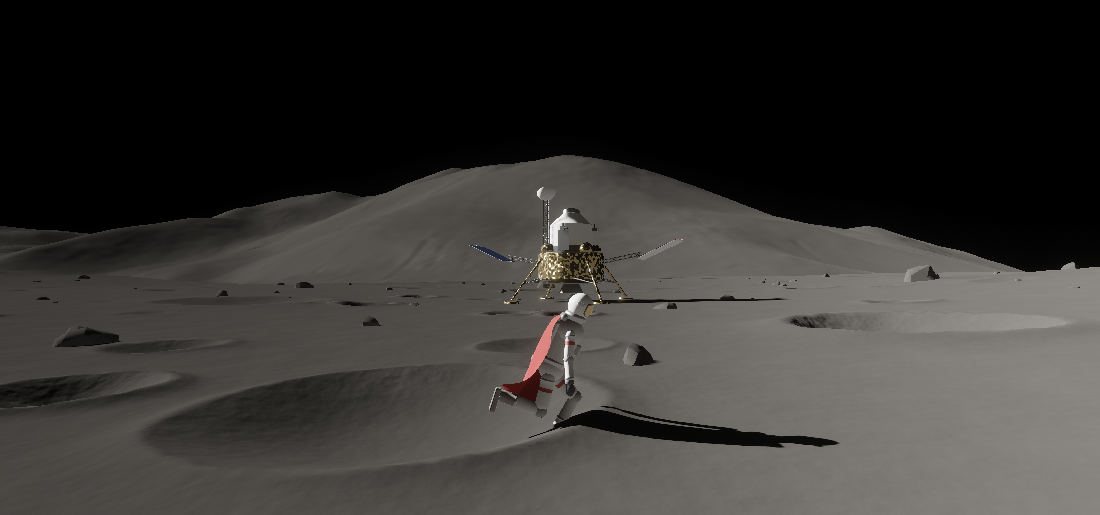
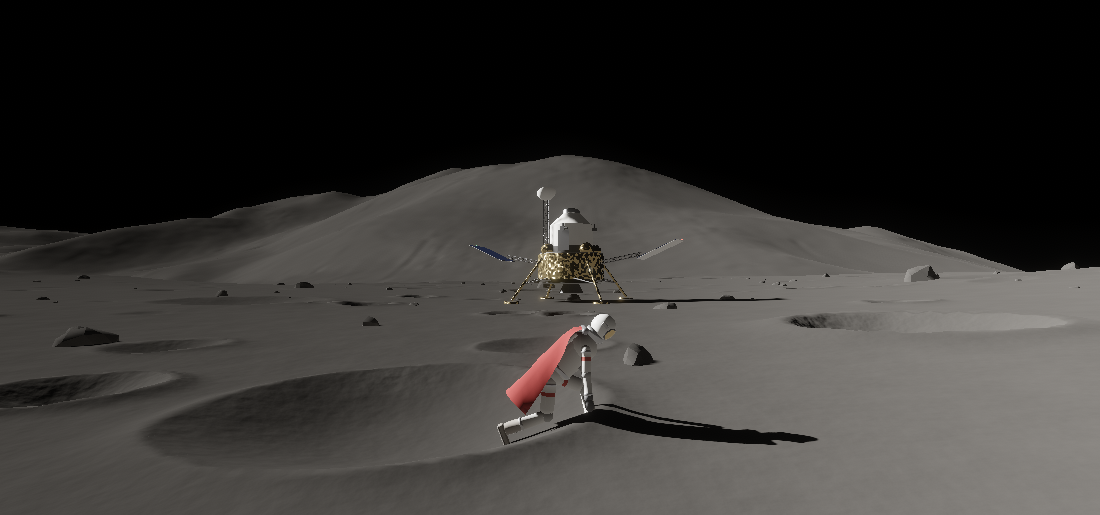
Progress: milestone 4 review, new reference pictures (landing, hover, target marker)
Claude-Session: https://claude.ai/code/session_01R5BrhzGbvM5Mm4BP5vZBtE

Changed region(s): [[0.4327, 0.5592, 0.7727, 0.8699]]

diff --git a/docs/PROGRESS.md b/docs/PROGRESS.md
@@ -590,6 +590,22 @@ governor is tuned when they arrive. Order: small and safe first, recipe tuning l
 | Far from every body only the target marker shows the way; there is no map yet | 7 |
 | Places on other worlds cannot be chosen until that world is home (no map yet) | 7 |
 | Triangles sit at ~420–480k of the 500k budget | watch |
+| The cloak reads as a stiff sheet: no folds or sag, even shading, a flat salmon red when backlit on Mars (milestone 4 review critic) | next character pass |
+| The suit reads slim: thin limbs, a small pack, a plain ball of a helmet; real suits are bulky (milestone 4 review critic) | next character pass |
+| No dust from footsteps or a run, no footprints; hovering looks much like standing (milestone 4 review critic) | next character pass |
+
+Fixed in the milestone 4 review: GO arriving at tens of thousands of km/s (the figure hit
+the ground a fraction of a second after "Arrived", even with HOVER on); the trip's heading
+and the cloak left in the old axes at the world hand-over; a trip that kept running after
+HERO, FLY, a bookmark or standing up; a three-point landing that read as a stumble, and its
+kneel carried into a jump or take-off; the figure jumping up to 0.7 m on landing while the
+view turned; the take-off dust missing for a held take-off and the landing dust a quarter
+of a second early; dust shown through rocks from higher up, and its noise breaking up far
+from where the pool was anchored; the feet's contact spheres read from the wrong slots
+(one was NaN); lander and rock darkening switching on in one frame; HOVER doing nothing in
+a fall on foot; GO reshuffling the touch buttons; the marker gone with the HUD off, its
+label cut at the screen's edge, and a place beyond the horizon marked on the ground in
+front; the boots of the hovering figure cut by the frame.
 
 Fixed in milestone 4: no darkening under the lander and rocks in shade (sky occlusion at
 their foot); the simple white figure (visor, lamps, pack, joints, gloves, boots, dust);
@@ -730,6 +746,49 @@ repository (re-create them with `npm run stability`).
 - The first version of the test moved too fast (several pixels per frame) and let
   exposure re-meter between frames; both produced large, honest differences that hid
   what the test is for. Steps are now about a pixel and exposure is held per station.
+
+## Milestone 4 review (after the checkpoint, at the owner's request)
+
+The owner asked for milestone 4 to be reviewed, judged and its errors redone before it is
+called done. Done as two rounds of independent reviewers (code read along five lines:
+character and poses, targets and GO, camera and flight, rendering cost, phone screen and
+documentation), each finding checked by a second reviewer told to disprove it, plus a
+critic that saw only the pictures and the art rules. 25 findings held (about 19 once the
+duplicates were merged); the fixes themselves were then reviewed the same way and 7 more
+problems were found in them and fixed. What changed, for the player:
+
+- **GO** now stops above the target and stays there with HOVER on (before, its speed on
+  arrival was about 70,000 km/s near the Moon and the figure hit the ground at once). A
+  trip ends when the character is put away, the free camera is taken, a bookmark is chosen
+  or it stands up. Across the world hand-over the trip keeps its heading (it veered by
+  about 110° and arrived 4 s late) and the cloak no longer whips round.
+- **Three-point landing**: a real kneel (left foot planted, right knee and fist on the
+  ground, head low), for every landing over about 10 m/s; a jump or take-off straight out
+  of it lets go of it.
+- **Chase camera**: while the figure hovers upright it is drawn 5.5 m ahead instead of
+  4.1 m, so its boots are in the picture (cruising with the stick pushed is unchanged). No
+  jump of the figure on landing or after the next take-off while the view turns. The
+  figure's trailing offset is the same at 30, 60 and 120 fps (it was four times larger at
+  120 Hz than at 30). Turning straight round on foot turns the figure at once (it ran
+  backwards for over a second). On a steep slope just past a crest the camera rises enough
+  to keep the figure in sight.
+- **Dust**: a ring at take-off when up is held (the usual phone take-off threw none); the
+  landing ring at the moment the feet touch; from higher up a lingering cloud is hidden by
+  rocks and ground in front of it; a long run or a bookmark jump no longer breaks it up.
+- **Darkening under things**: the feet's spheres were read from the wrong slots (one of
+  them NaN); the lander's and the rocks' spheres now fade in and out.
+- **HOVER** pressed during a fall on foot stops the fall, as its message says.
+- **Screen**: `GO` sits above `▲` (showing it pushed every button after it one place
+  along); the target marker stays when the HUD is off, keeps its label inside the screen,
+  and a place beyond the horizon is marked where the way to it crosses the horizon, with
+  "over the horizon"; the full read-out starts below the buttons; the HUD no longer shows
+  through the start and results screens.
+- **Tests**: `npm run transfer` turns the frame at the hand-over as the game does and flies
+  every trip with HOVER off and on; the headless tests no longer count the software
+  driver's "GPU stall" notes as page faults (target and foot had been failing on them).
+
+The critic's remaining gaps are about the character's look (a sheet-like cloak, a slim
+suit, no footstep dust): in the known-problems table for a later character pass.
 
 ## Independent critic, milestone 4 (screenshots and art rules only)
 
